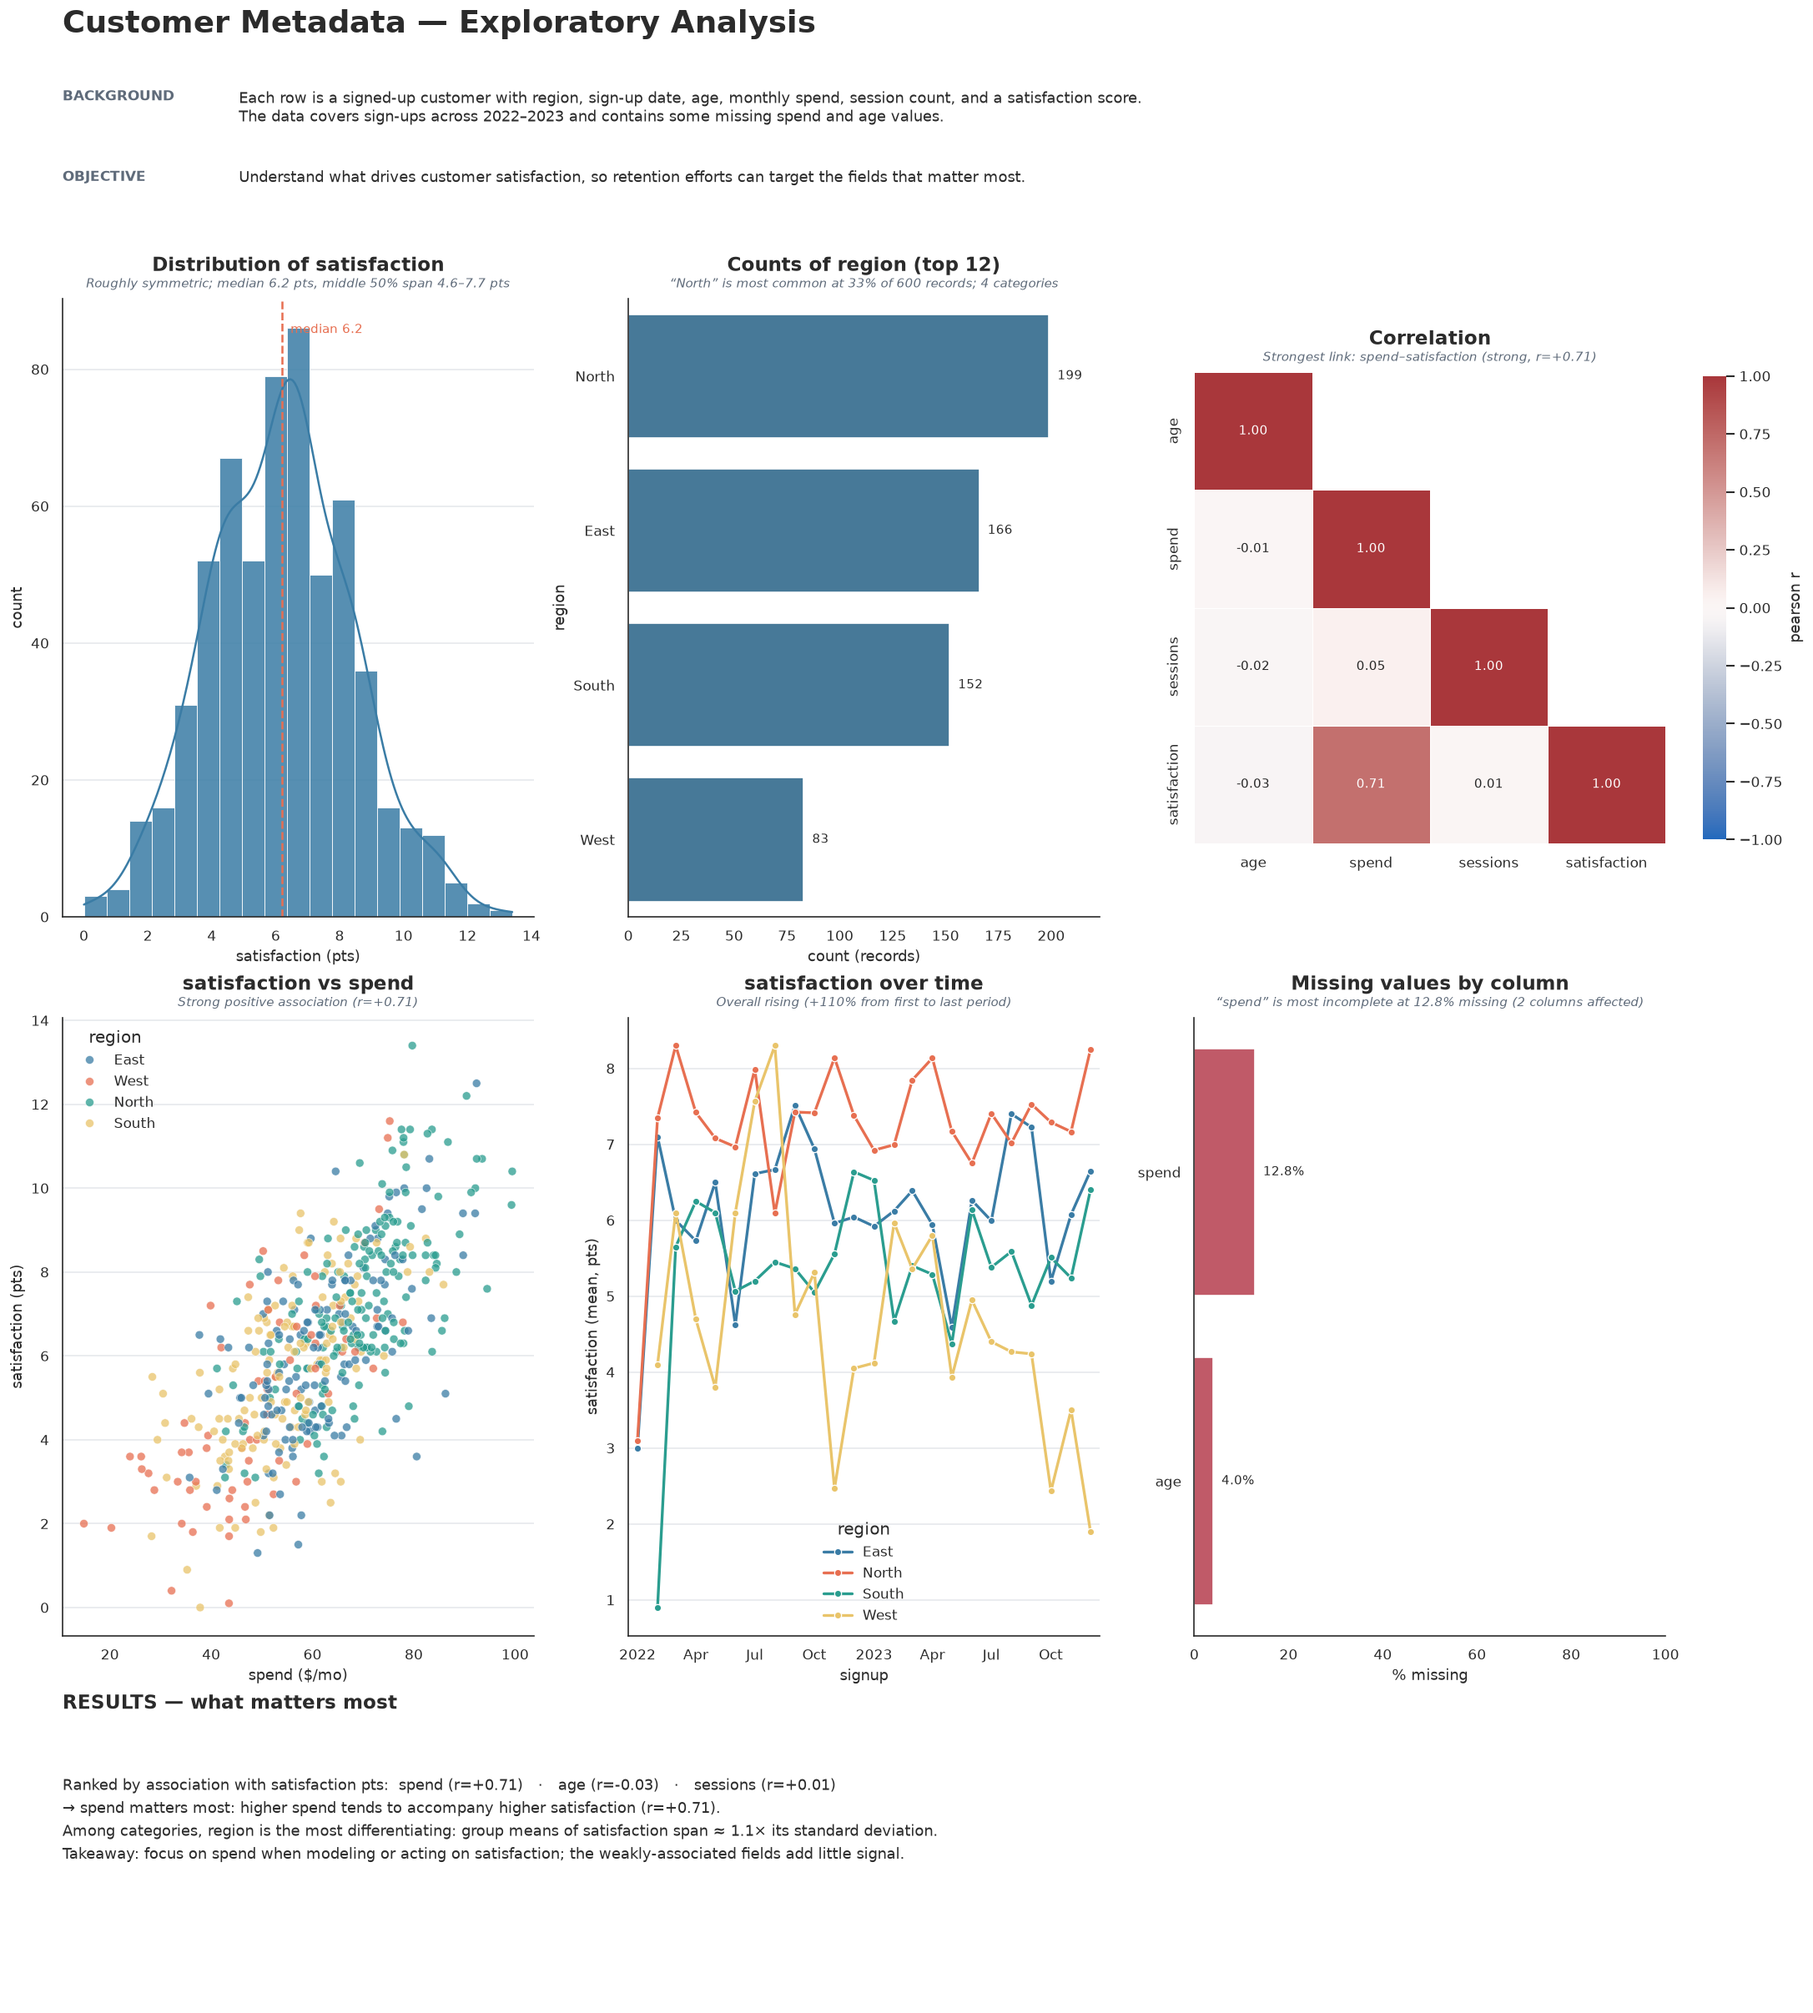
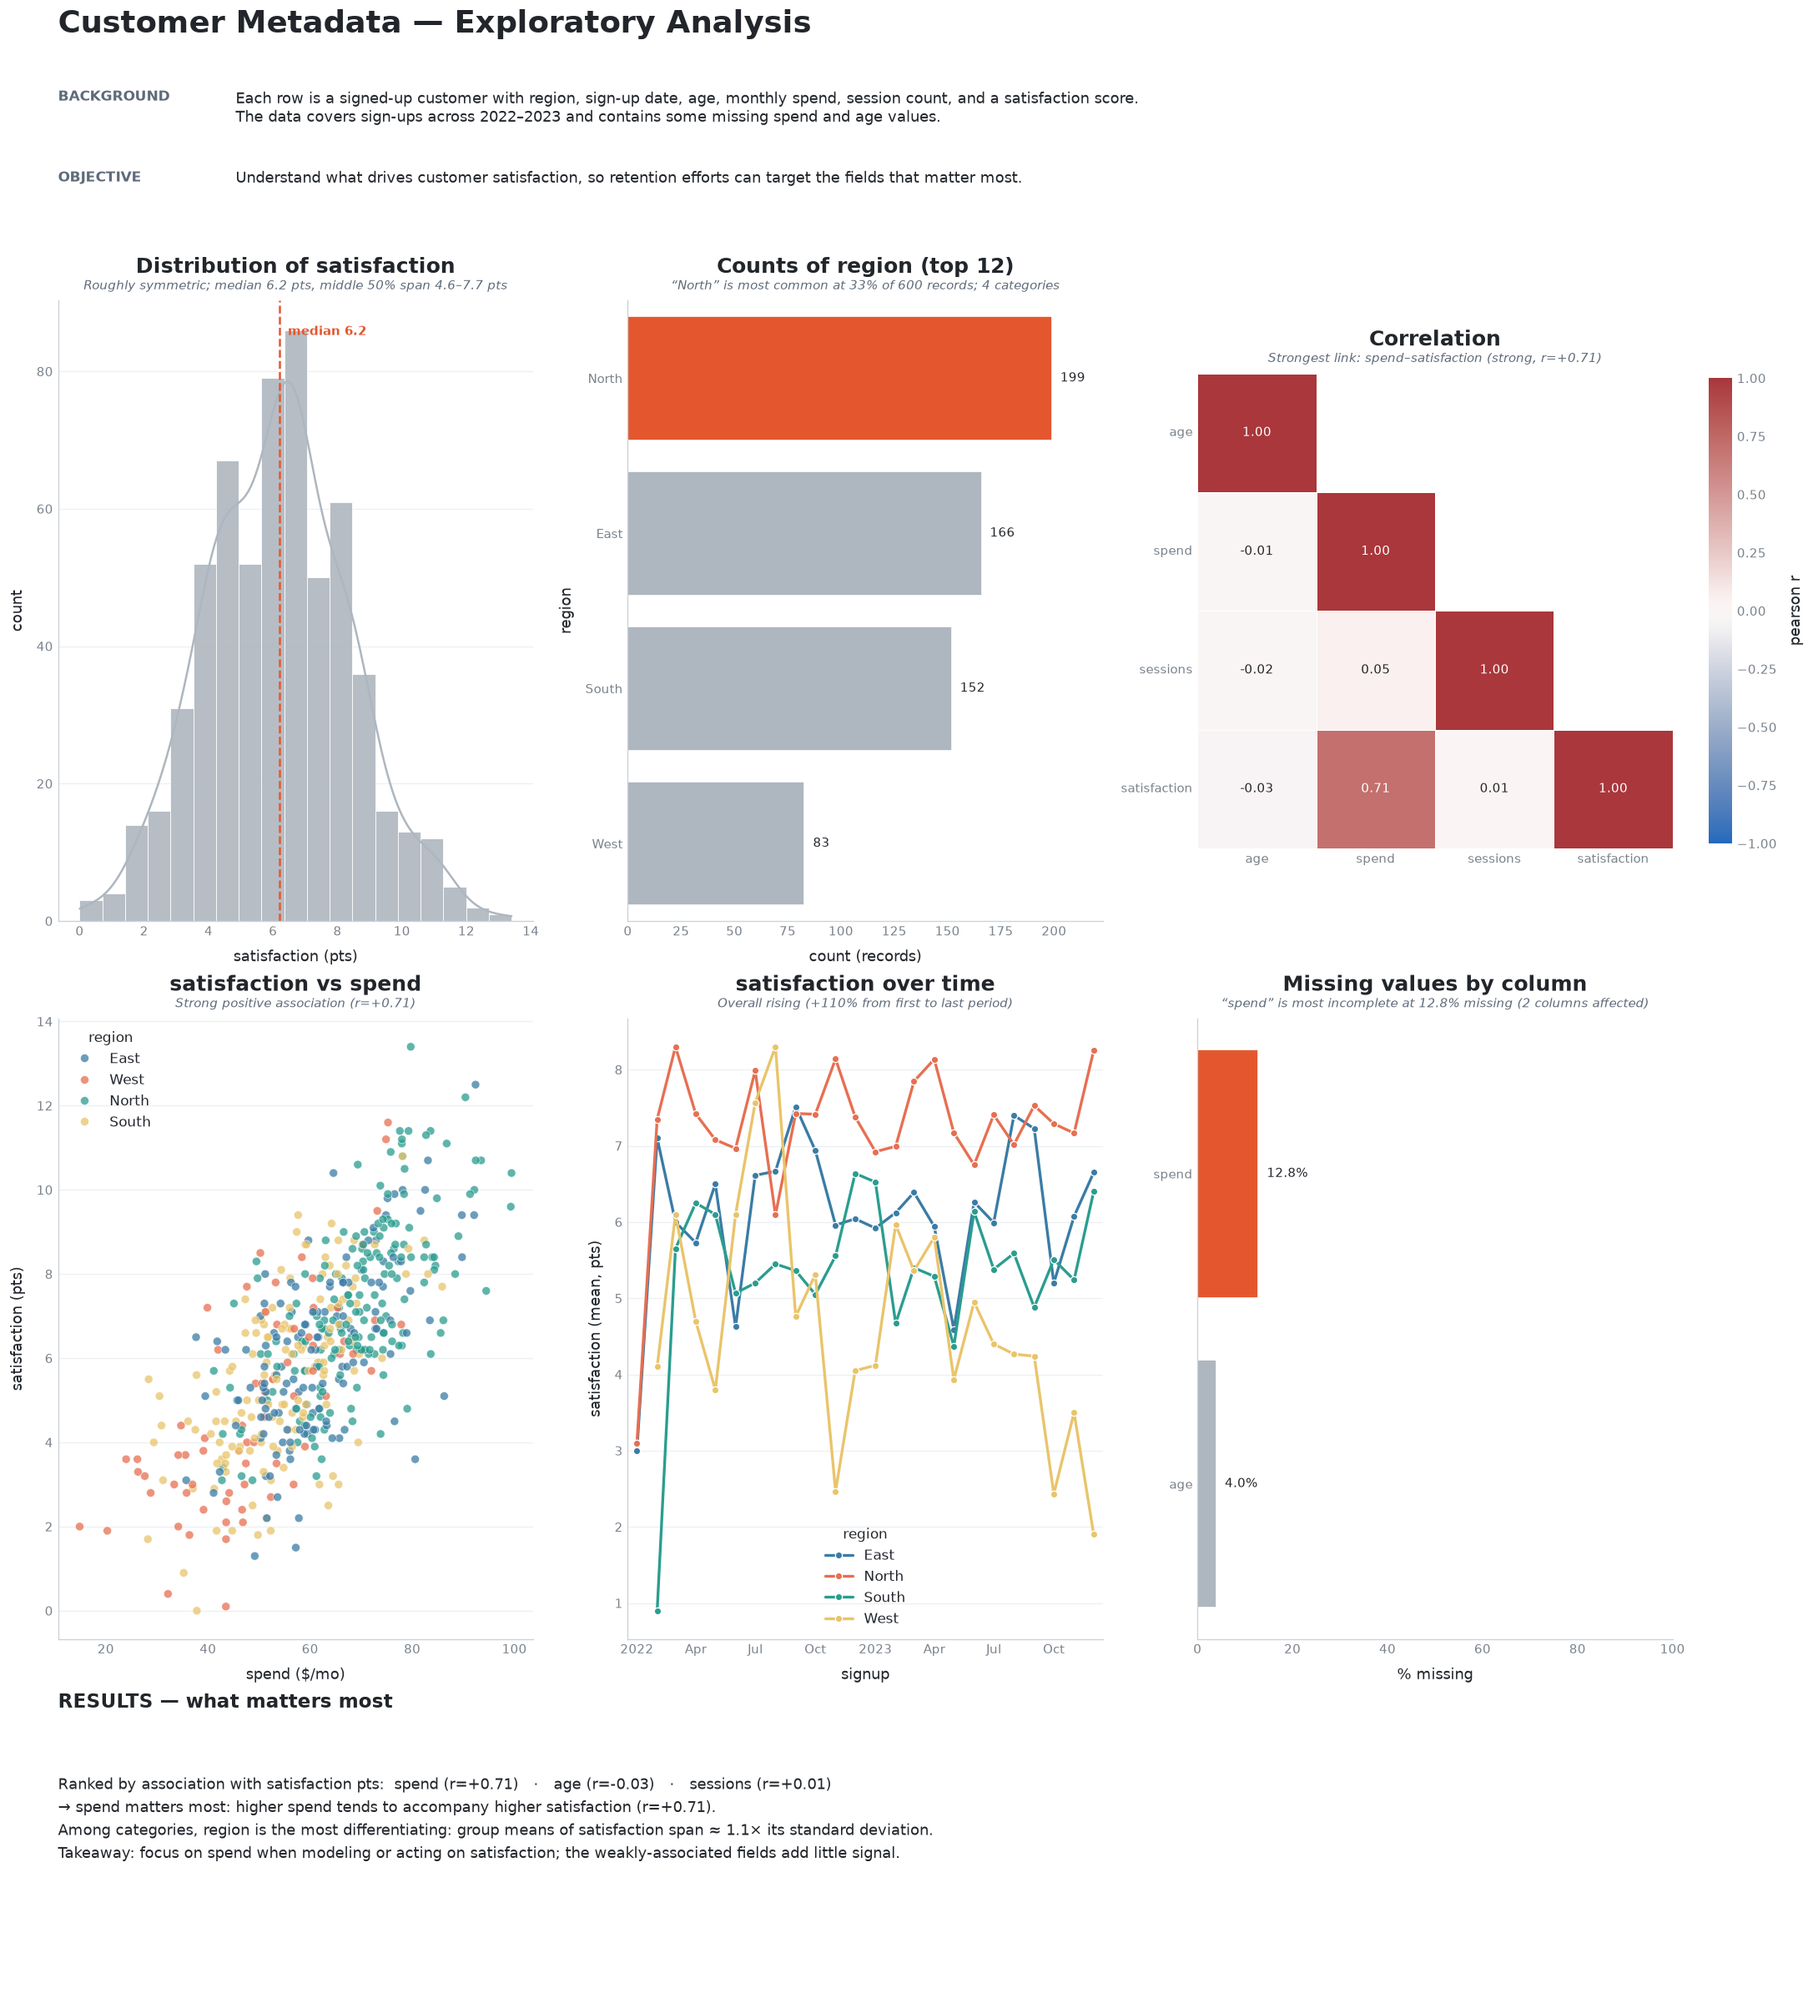
Adopt data-viz best practices in the theme and plots
Apply strategic-color, typography, and decluttering guidelines across Glyph:

- Color discipline: single-series charts now use one NEUTRAL gray with a single
  HIGHLIGHT on the datum that matters (top category in counts, most-incomplete
  column in missing, median line in distribution); the multi-color PALETTE is
  reserved for comparing groups (hue). Correlation keeps the meaning-driven
  diverging map. Bars render at full saturation for faithful theme colors.
- Typography/hierarchy: clean sans-serif stack (Arial/Roboto/… → DejaVu),
  larger bold titles, medium labels, small faint ticks with no tick marks.
- Declutter: lighter/thinner spines, fainter single-axis grid, more title
  padding and white space; correlation tick labels forced horizontal.

Docs updated (README theme section, CLAUDE.md standards) and both committed
previews regenerated. Tests: 31 passing (new highlight-color assertion).

Claude-Session: https://claude.ai/code/session_01Dd4o8XkhjckPVTTxTjVDuW

diff --git a/src/glyph/theme.py b/src/glyph/theme.py
@@ -12,6 +12,8 @@ import matplotlib.pyplot as plt
 import seaborn as sns
 
 #: Qualitative palette for categorical series — distinct but harmonious.
+#: Used only when a chart must compare groups (a ``hue``); single-series charts
+#: use NEUTRAL + HIGHLIGHT instead.
 PALETTE = [
     "#3A7CA5",  # blue
     "#E76F51",  # coral
@@ -23,14 +25,24 @@ PALETTE = [
     "#577590",  # slate
 ]
 
+#: The quiet default: most bars/marks in a single-series chart use this gray so
+#: nothing competes for attention.
+NEUTRAL = "#AEB6BF"
+
+#: The one loud color: reserved for the single data point worth noticing (the
+#: biggest category, the most-incomplete column, the median line).
+HIGHLIGHT = "#E4572E"
+
 #: Sequential colormap for magnitude (e.g. counts, density).
 SEQUENTIAL = "mako"
 
-#: Diverging colormap for signed values (e.g. correlations).
+#: Diverging colormap for signed values (e.g. correlations) — blue↓ / red↑.
 DIVERGING = "vlag"
 
-_INK = "#2B2B2B"
-_GRID = "#E4E7EB"
+_INK = "#22262B"  # near-black for titles and data labels (high contrast)
+_TICK = "#7A828C"  # faint gray for ticks and their labels
+_SPINE = "#CBD2D9"  # light spine
+_GRID = "#EDF0F3"  # very light gridlines
 
 
 def set_theme(*, context: str = "notebook", grid: bool = True) -> None:
@@ -51,32 +63,42 @@ def set_theme(*, context: str = "notebook", grid: bool = True) -> None:
     )
     plt.rcParams.update(
         {
+            # Clean sans-serif; falls back to DejaVu Sans if Arial/Roboto absent.
+            "font.family": "sans-serif",
+            "font.sans-serif": ["Arial", "Roboto", "Helvetica Neue", "Helvetica", "DejaVu Sans"],
             "figure.figsize": (8, 5),
             "figure.dpi": 110,
             "figure.facecolor": "white",
             "axes.facecolor": "white",
-            "axes.edgecolor": _INK,
-            "axes.linewidth": 1.0,
-            "axes.grid": grid,
-            "axes.grid.axis": "y",
+            "axes.axisbelow": True,  # gridlines behind the data
+            # Declutter: only the left/bottom spines, light and thin.
+            "axes.edgecolor": _SPINE,
+            "axes.linewidth": 0.8,
             "axes.spines.top": False,
             "axes.spines.right": False,
-            "axes.titlesize": 14,
+            "axes.grid": grid,
+            "axes.grid.axis": "y",  # one direction only
+            # Hierarchy: big bold title, medium labels, small faint ticks.
+            "axes.titlesize": 15,
             "axes.titleweight": "bold",
-            "axes.titlepad": 12,
+            "axes.titlepad": 14,
             "axes.titlecolor": _INK,
             "axes.labelsize": 11,
             "axes.labelcolor": _INK,
             "axes.labelweight": "normal",
+            "axes.labelpad": 8,
             "text.color": _INK,
-            "xtick.color": _INK,
-            "ytick.color": _INK,
-            "xtick.labelsize": 10,
-            "ytick.labelsize": 10,
+            "xtick.color": _TICK,
+            "ytick.color": _TICK,
+            "xtick.labelsize": 9,
+            "ytick.labelsize": 9,
+            "xtick.major.size": 0,  # no tick marks; labels carry the axis
+            "ytick.major.size": 0,
             "grid.color": _GRID,
-            "grid.linewidth": 0.9,
+            "grid.linewidth": 0.8,
             "legend.frameon": False,
             "legend.fontsize": 10,
+            "legend.title_fontsize": 10,
             "savefig.bbox": "tight",
             "savefig.facecolor": "white",
         }

diff --git a/src/glyph/plots.py b/src/glyph/plots.py
@@ -59,19 +59,20 @@ def distribution(
         kde=True,
         edgecolor="white",
         linewidth=0.5,
-        alpha=0.85,
+        alpha=0.9,
         ax=ax,
-        color=None if hue else theme.color(0),
+        color=None if hue else theme.NEUTRAL,
     )
     if hue is None:
         median = df[column].median()
-        ax.axvline(median, color=theme.color(1), linestyle="--", linewidth=1.5)
+        ax.axvline(median, color=theme.HIGHLIGHT, linestyle="--", linewidth=1.5)
         ax.text(
             median,
             ax.get_ylim()[1] * 0.96,
             f"  median {median:.4g}",
-            color=theme.color(1),
+            color=theme.HIGHLIGHT,
             fontsize=9,
+            fontweight="bold",
             va="top",
         )
     unit = (units or {}).get(column)
@@ -108,9 +109,11 @@ def counts(
     sns.barplot(
         x=order.values,
         y=order.index.astype(str),
-        color=theme.color(0),
+        color=theme.NEUTRAL,
+        saturation=1,  # render theme colors faithfully (no desaturation)
         ax=ax,
     )
+    _highlight_bar(ax, 0)  # the most frequent category
     _label_bars(ax, order.values)
     ax.margins(x=0.12)
     ax.grid(False, axis="y")
@@ -163,6 +166,9 @@ def correlation(
     )
     _titled(ax, "Correlation", insights.correlation_insight(numeric) if describe else None)
     ax.grid(False)
+    # Keep all labels horizontal (no slanted text).
+    ax.tick_params(axis="x", rotation=0)
+    ax.tick_params(axis="y", rotation=0)
     return ax
 
 
@@ -226,7 +232,7 @@ def boxplot(
         y=y,
         hue=hue,
         palette=_hue_palette(df[hue]) if hue else None,
-        color=None if hue else theme.color(0),
+        color=None if hue else theme.NEUTRAL,
         width=0.6,
         fliersize=3,
         ax=ax,
@@ -261,7 +267,8 @@ def missing(
         ax.set_yticks([])
         return ax
 
-    sns.barplot(x=pct.values, y=pct.index.astype(str), color=theme.color(6), ax=ax)
+    sns.barplot(x=pct.values, y=pct.index.astype(str), color=theme.NEUTRAL, saturation=1, ax=ax)
+    _highlight_bar(ax, 0)  # the most-incomplete column
     _label_bars(ax, pct.values, fmt="{:.1f}%")
     ax.set_xlim(0, 100)
     ax.margins(x=0.12)
@@ -436,6 +443,12 @@ def _format_date_axis(ax: plt.Axes) -> None:
     locator = mdates.AutoDateLocator()
     ax.xaxis.set_major_locator(locator)
     ax.xaxis.set_major_formatter(mdates.ConciseDateFormatter(locator))
+
+
+def _highlight_bar(ax: plt.Axes, index: int) -> None:
+    """Recolor a single bar in the highlight color to draw the eye to it."""
+    if 0 <= index < len(ax.patches):
+        ax.patches[index].set_facecolor(theme.HIGHLIGHT)
 
 
 def _label_bars(ax: plt.Axes, values, fmt: str = "{:,.0f}") -> None:

diff --git a/tests/test_plots.py b/tests/test_plots.py
@@ -46,6 +46,17 @@ def test_counts_returns_axes_and_top(df):
     assert len(ax.patches) == 2
 
 
+def test_counts_highlights_most_frequent_bar(df):
+    import matplotlib.colors as mcolors
+    from glyph import theme
+
+    ax = glyph.counts(df, "group")
+    top = mcolors.to_hex(ax.patches[0].get_facecolor())
+    rest = mcolors.to_hex(ax.patches[1].get_facecolor())
+    assert top.lower() == theme.HIGHLIGHT.lower()
+    assert rest.lower() == theme.NEUTRAL.lower()
+
+
 def test_correlation_returns_axes(df):
     ax = glyph.correlation(df)
     assert isinstance(ax, plt.Axes)

diff --git a/CLAUDE.md b/CLAUDE.md
@@ -21,7 +21,7 @@ and users import.
 ```
 src/glyph/
 ├── __init__.py   # public API; calls set_theme() on import
-├── theme.py      # the Glyph look: PALETTE, SEQUENTIAL, DIVERGING, set_theme(), color()
+├── theme.py      # the Glyph look: PALETTE, NEUTRAL, HIGHLIGHT, SEQUENTIAL, DIVERGING, set_theme(), color()
 ├── plots.py      # the plotting functions (the single-axes public surface)
 ├── insights.py   # data → one-line finding strings + driver ranking (no plotting)
 └── report.py     # report(): composes header + graphs + results into one Figure
@@ -48,8 +48,13 @@ their finding strings from `insights.py`, which never plots.
   - Validate inputs with `_require_dataframe(df)` / `_check_columns(df, [...])`.
   - Accept `ax`; create one with `_new_ax()` when `None`.
   - Set a title and axis labels.
-  - Take colors from `theme` (`theme.color(i)`, `theme.PALETTE`,
-    `theme.SEQUENTIAL`, `theme.DIVERGING`) — never inline hex in `plots.py`.
+  - Take colors from `theme`, never inline hex. Follow the palette discipline:
+    a single-series chart uses `theme.NEUTRAL` for every mark and `theme.HIGHLIGHT`
+    on the one datum worth noticing (via `_highlight_bar`, an accent line, etc.);
+    `theme.PALETTE`/`theme.color(i)` is only for comparing groups (a `hue`);
+    `theme.SEQUENTIAL` for magnitude and `theme.DIVERGING` for signed matrices.
+  - Keep tick labels horizontal (no rotation); rely on horizontal-bar layouts
+    for long category names.
   - Set titles via `_titled(ax, title, subtitle)`. Accept `describe=True` and
     pass the finding from `insights` as the subtitle; accept `units=None` and
     label axes via `_axis_label(col, units)`.

diff --git a/README.md b/README.md
@@ -107,13 +107,18 @@ ax.figure.savefig("spend_by_region.png")
 
 ## Theme
 
-The Glyph look — a modern palette, light gridlines, clean spines, confident
-titles — is applied on import. Reapply or adjust it with `set_theme`:
+The Glyph look is applied on import: a clean sans-serif stack, a bold-title /
+faint-tick hierarchy, light spines and gridlines, and plenty of white space.
+Its color discipline is deliberate — single-series charts are drawn in one
+**neutral** gray with a single **highlight** on the datum that matters (the
+biggest category, the most-incomplete column, the median line); the multi-color
+palette is reserved for comparing groups. Reapply or adjust the theme with
+`set_theme`:
 
 ```python
 glyph.set_theme(context="talk")   # larger fonts for slides
 glyph.set_theme(grid=False)       # drop the gridlines
-glyph.PALETTE                     # the qualitative color list
+glyph.PALETTE                     # the qualitative palette (used for `hue`)
 glyph.color(2)                    # one palette color by index
 ```
 
